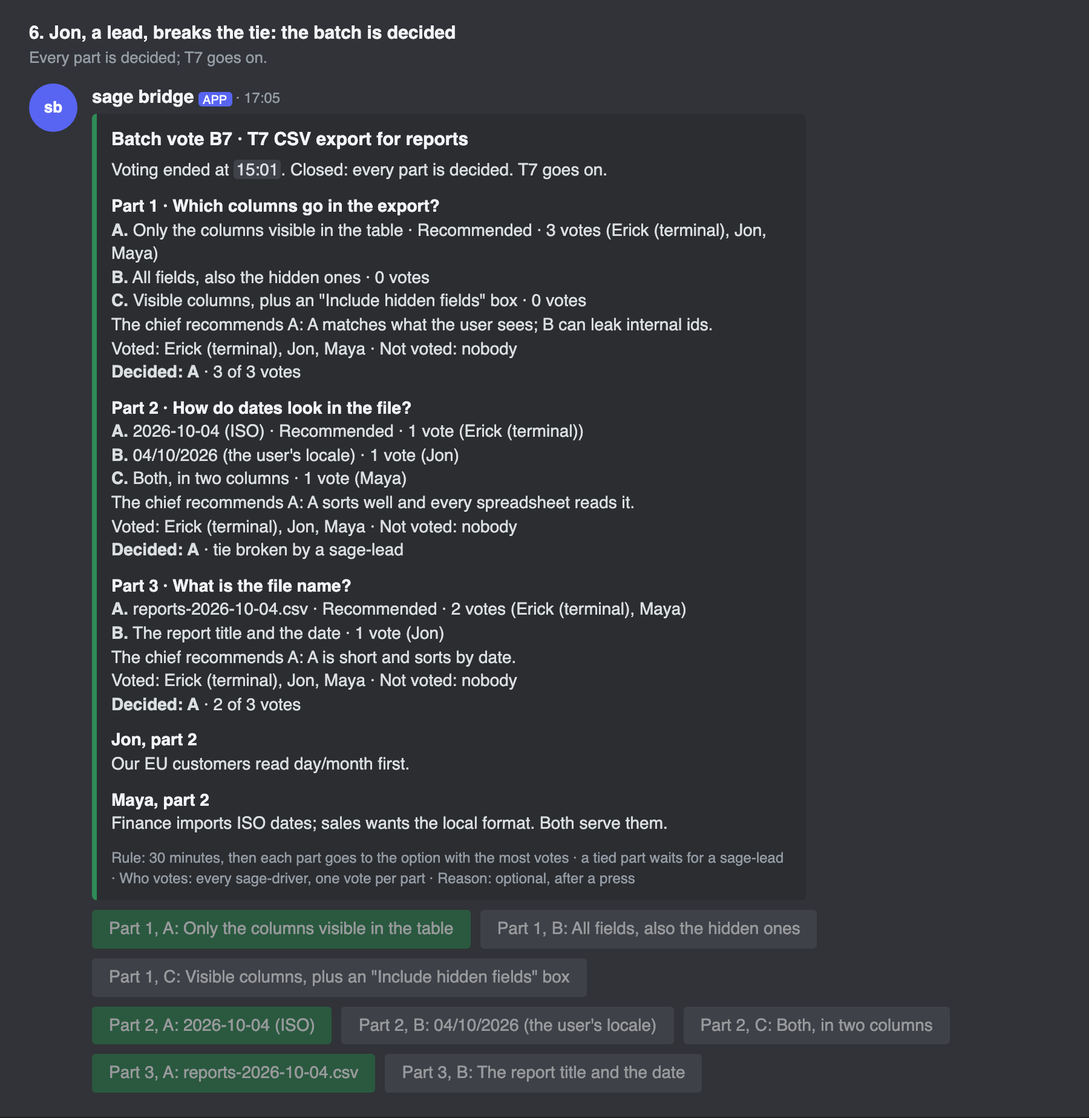
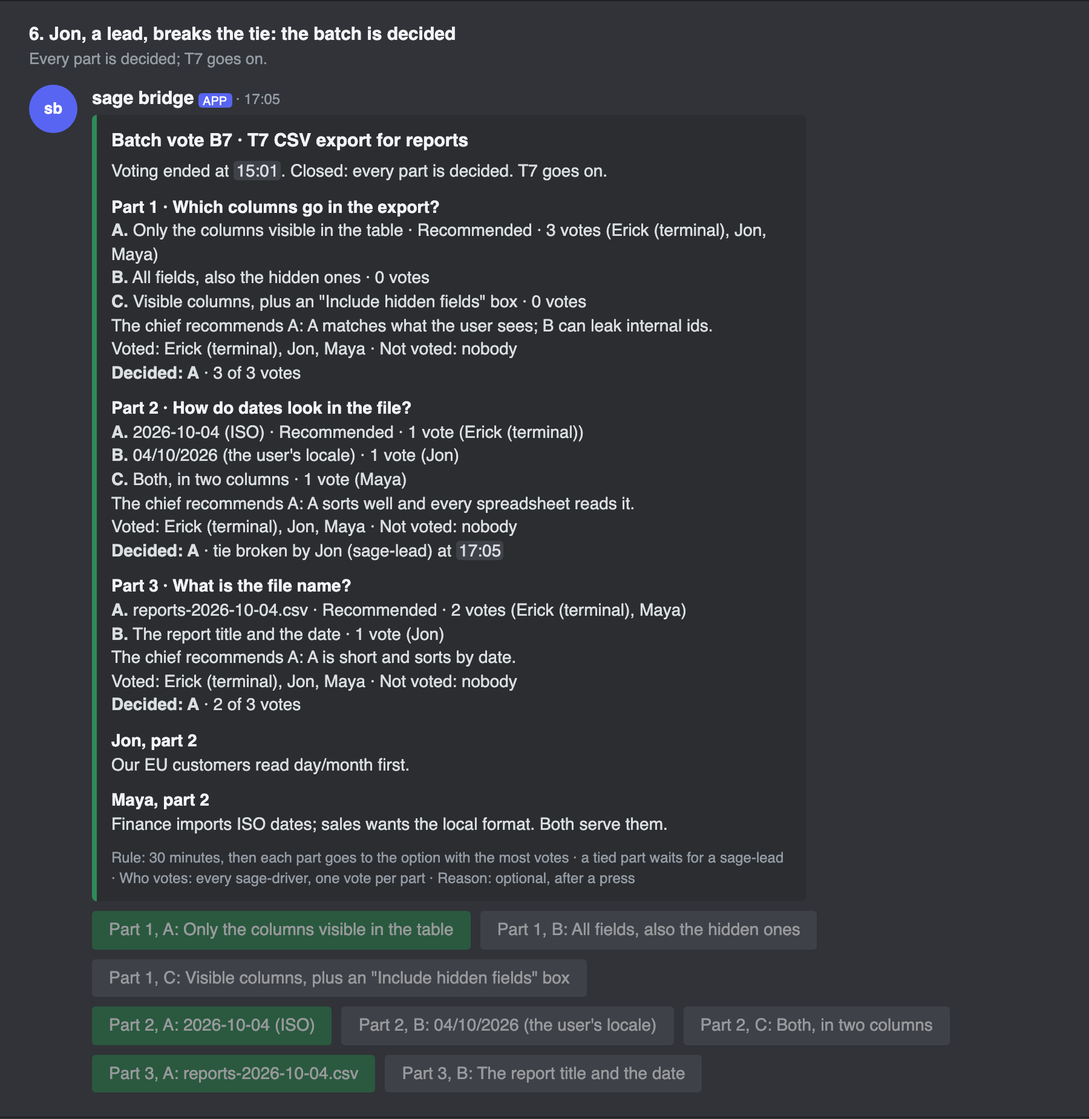
Regenerate the B2 preview and shots for T39
Shots 05, 06 and 10 show the reminder sentence and the named lead;
the voting shots show "The work on the task goes on."

diff --git a/design/b2/index.html b/design/b2/index.html
@@ -30,46 +30,46 @@
 <div class="msg eph"><span class="av">sb</span><div class="body"><div class="meta"><b>sage bridge</b> <span class="app">APP</span> · 14:22</div>
   <div class="ephnote">Only you can see this · Dismiss message</div><div>Already answered by Maya: A</div></div></div></section>
 <section id="m3"><h2>3. The batch vote of a task</h2><p class="about">18 minutes left; Erick voted at his terminal; Jon gave a reason.</p><div class="msg"><span class="av">sb</span><div class="body"><div class="meta"><b>sage bridge</b> <span class="app">APP</span> · 14:43</div>
-  <div class="embed" style="border-color:#6b4fd8"><div class="title">Batch vote B7 · T7 CSV export for reports</div><div class="desc">3 product questions of T7. Vote on each part; change your vote until the vote ends. Closes at <time>15:01</time> (<time>in 18 minutes</time>).</div>
+  <div class="embed" style="border-color:#6b4fd8"><div class="title">Batch vote B7 · T7 CSV export for reports</div><div class="desc">3 product questions of T7. Vote on each part; change your vote until the vote ends. The work on the task goes on. Closes at <time>15:01</time> (<time>in 18 minutes</time>).</div>
   <div class="field"><div class="fname">Part 1 · Which columns go in the export?</div><div class="fvalue"><b>A.</b> Only the columns visible in the table · Recommended · 2 votes (Erick (terminal), Jon)<br><b>B.</b> All fields, also the hidden ones · 0 votes<br><b>C.</b> Visible columns, plus an &quot;Include hidden fields&quot; box · 0 votes<br>The chief recommends A: A matches what the user sees; B can leak internal ids.<br>Voted: Erick (terminal), Jon · Not voted: Maya<br>Ahead: A</div></div><div class="field"><div class="fname">Part 2 · How do dates look in the file?</div><div class="fvalue"><b>A.</b> 2026-10-04 (ISO) · Recommended · 1 vote (Erick (terminal))<br><b>B.</b> 04/10/2026 (the user's locale) · 1 vote (Jon)<br><b>C.</b> Both, in two columns · 0 votes<br>The chief recommends A: A sorts well and every spreadsheet reads it.<br>Voted: Erick (terminal), Jon · Not voted: Maya<br>Even so far</div></div><div class="field"><div class="fname">Part 3 · What is the file name?</div><div class="fvalue"><b>A.</b> reports-2026-10-04.csv · Recommended · 1 vote (Erick (terminal))<br><b>B.</b> The report title and the date · 1 vote (Jon)<br>The chief recommends A: A is short and sorts by date.<br>Voted: Erick (terminal), Jon · Not voted: Maya<br>Even so far</div></div><div class="field"><div class="fname">Jon, part 2</div><div class="fvalue">Our EU customers read day/month first.</div></div>
   <div class="footer">Rule: 30 minutes, then each part goes to the option with the most votes · a tied part waits for a sage-lead · Who votes: every sage-driver, one vote per part · Reason: optional, after a press</div></div><div class="row"><button class="primary" title="press:B7:0:0">Part 1, A: Only the columns visible in the table</button><button class="secondary" title="press:B7:0:1">Part 1, B: All fields, also the hidden ones</button><button class="secondary" title="press:B7:0:2">Part 1, C: Visible columns, plus an &quot;Include hidden fields&quot; box</button></div><div class="row"><button class="primary" title="press:B7:1:0">Part 2, A: 2026-10-04 (ISO)</button><button class="secondary" title="press:B7:1:1">Part 2, B: 04/10/2026 (the user's locale)</button><button class="secondary" title="press:B7:1:2">Part 2, C: Both, in two columns</button></div><div class="row"><button class="primary" title="press:B7:2:0">Part 3, A: reports-2026-10-04.csv</button><button class="secondary" title="press:B7:2:1">Part 3, B: The report title and the date</button></div><div class="row"><button class="danger" title="end:B7">End vote now (sage-lead only)</button></div></div></div>
 </section>
 <section id="m4"><h2>4. Maya votes C on part 2 and may add a reason</h2><p class="about">Her vote counts already; the form is optional.</p><div class="msg"><span class="av">sb</span><div class="body"><div class="meta"><b>sage bridge</b> <span class="app">APP</span> · 14:44</div>
-  <div class="embed" style="border-color:#6b4fd8"><div class="title">Batch vote B7 · T7 CSV export for reports</div><div class="desc">3 product questions of T7. Vote on each part; change your vote until the vote ends. Closes at <time>15:01</time> (<time>in 17 minutes</time>).</div>
+  <div class="embed" style="border-color:#6b4fd8"><div class="title">Batch vote B7 · T7 CSV export for reports</div><div class="desc">3 product questions of T7. Vote on each part; change your vote until the vote ends. The work on the task goes on. Closes at <time>15:01</time> (<time>in 17 minutes</time>).</div>
   <div class="field"><div class="fname">Part 1 · Which columns go in the export?</div><div class="fvalue"><b>A.</b> Only the columns visible in the table · Recommended · 2 votes (Erick (terminal), Jon)<br><b>B.</b> All fields, also the hidden ones · 0 votes<br><b>C.</b> Visible columns, plus an &quot;Include hidden fields&quot; box · 0 votes<br>The chief recommends A: A matches what the user sees; B can leak internal ids.<br>Voted: Erick (terminal), Jon · Not voted: Maya<br>Ahead: A</div></div><div class="field"><div class="fname">Part 2 · How do dates look in the file?</div><div class="fvalue"><b>A.</b> 2026-10-04 (ISO) · Recommended · 1 vote (Erick (terminal))<br><b>B.</b> 04/10/2026 (the user's locale) · 1 vote (Jon)<br><b>C.</b> Both, in two columns · 1 vote (Maya)<br>The chief recommends A: A sorts well and every spreadsheet reads it.<br>Voted: Erick (terminal), Jon, Maya · Not voted: nobody<br>Even so far</div></div><div class="field"><div class="fname">Part 3 · What is the file name?</div><div class="fvalue"><b>A.</b> reports-2026-10-04.csv · Recommended · 1 vote (Erick (terminal))<br><b>B.</b> The report title and the date · 1 vote (Jon)<br>The chief recommends A: A is short and sorts by date.<br>Voted: Erick (terminal), Jon · Not voted: Maya<br>Even so far</div></div><div class="field"><div class="fname">Jon, part 2</div><div class="fvalue">Our EU customers read day/month first.</div></div>
   <div class="footer">Rule: 30 minutes, then each part goes to the option with the most votes · a tied part waits for a sage-lead · Who votes: every sage-driver, one vote per part · Reason: optional, after a press</div></div><div class="row"><button class="primary" title="press:B7:0:0">Part 1, A: Only the columns visible in the table</button><button class="secondary" title="press:B7:0:1">Part 1, B: All fields, also the hidden ones</button><button class="secondary" title="press:B7:0:2">Part 1, C: Visible columns, plus an &quot;Include hidden fields&quot; box</button></div><div class="row"><button class="primary" title="press:B7:1:0">Part 2, A: 2026-10-04 (ISO)</button><button class="secondary" title="press:B7:1:1">Part 2, B: 04/10/2026 (the user's locale)</button><button class="secondary" title="press:B7:1:2">Part 2, C: Both, in two columns</button></div><div class="row"><button class="primary" title="press:B7:2:0">Part 3, A: reports-2026-10-04.csv</button><button class="secondary" title="press:B7:2:1">Part 3, B: The report title and the date</button></div><div class="row"><button class="danger" title="end:B7">End vote now (sage-lead only)</button></div></div></div>
 <div class="modal"><h3>Your vote counts: C. Both, in two columns</h3><label>Reason for part 2 (optional)<textarea placeholder="Everyone sees it on the card. The chief gets it as quoted text and sums up the arguments." maxlength="500"></textarea></label><div class="mbtns"><span>Cancel</span><button class="primary">Submit</button></div></div></section>
 <section id="m5"><h2>5. At 30 minutes the vote ends; part 2 is tied 1-1-1</h2><p class="about">Parts 1 and 3 are provisional; the tie-break buttons show the tied options only.</p><div class="msg"><span class="av">sb</span><div class="body"><div class="meta"><b>sage bridge</b> <span class="app">APP</span> · 15:01</div>
   <div class="embed" style="border-color:#c77700"><div class="title">Batch vote B7 · T7 CSV export for reports</div><div class="desc">Voting ended at <time>15:01</time>. 1 part is tied: it waits for a sage-lead. The other parts are provisional, and T7 waits.</div>
-  <div class="field"><div class="fname">Part 1 · Which columns go in the export?</div><div class="fvalue"><b>A.</b> Only the columns visible in the table · Recommended · 3 votes (Erick (terminal), Jon, Maya)<br><b>B.</b> All fields, also the hidden ones · 0 votes<br><b>C.</b> Visible columns, plus an &quot;Include hidden fields&quot; box · 0 votes<br>The chief recommends A: A matches what the user sees; B can leak internal ids.<br>Voted: Erick (terminal), Jon, Maya · Not voted: nobody<br><b>Provisional: A</b> · 3 of 3 votes</div></div><div class="field"><div class="fname">Part 2 · How do dates look in the file?</div><div class="fvalue"><b>A.</b> 2026-10-04 (ISO) · Recommended · 1 vote (Erick (terminal))<br><b>B.</b> 04/10/2026 (the user's locale) · 1 vote (Jon)<br><b>C.</b> Both, in two columns · 1 vote (Maya)<br>The chief recommends A: A sorts well and every spreadsheet reads it.<br>Voted: Erick (terminal), Jon, Maya · Not voted: nobody<br><b>Tied: A, B, C at 1 vote each.</b> A sage-lead breaks the tie.</div></div><div class="field"><div class="fname">Part 3 · What is the file name?</div><div class="fvalue"><b>A.</b> reports-2026-10-04.csv · Recommended · 2 votes (Erick (terminal), Maya)<br><b>B.</b> The report title and the date · 1 vote (Jon)<br>The chief recommends A: A is short and sorts by date.<br>Voted: Erick (terminal), Jon, Maya · Not voted: nobody<br><b>Provisional: A</b> · 2 of 3 votes</div></div><div class="field"><div class="fname">Jon, part 2</div><div class="fvalue">Our EU customers read day/month first.</div></div><div class="field"><div class="fname">Maya, part 2</div><div class="fvalue">Finance imports ISO dates; sales wants the local format. Both serve them.</div></div>
+  <div class="field"><div class="fname">Part 1 · Which columns go in the export?</div><div class="fvalue"><b>A.</b> Only the columns visible in the table · Recommended · 3 votes (Erick (terminal), Jon, Maya)<br><b>B.</b> All fields, also the hidden ones · 0 votes<br><b>C.</b> Visible columns, plus an &quot;Include hidden fields&quot; box · 0 votes<br>The chief recommends A: A matches what the user sees; B can leak internal ids.<br>Voted: Erick (terminal), Jon, Maya · Not voted: nobody<br><b>Provisional: A</b> · 3 of 3 votes</div></div><div class="field"><div class="fname">Part 2 · How do dates look in the file?</div><div class="fvalue"><b>A.</b> 2026-10-04 (ISO) · Recommended · 1 vote (Erick (terminal))<br><b>B.</b> 04/10/2026 (the user's locale) · 1 vote (Jon)<br><b>C.</b> Both, in two columns · 1 vote (Maya)<br>The chief recommends A: A sorts well and every spreadsheet reads it.<br>Voted: Erick (terminal), Jon, Maya · Not voted: nobody<br><b>Tied: A, B, C at 1 vote each.</b> A sage-lead breaks the tie. The chief reminds @sage-lead every 2 h.</div></div><div class="field"><div class="fname">Part 3 · What is the file name?</div><div class="fvalue"><b>A.</b> reports-2026-10-04.csv · Recommended · 2 votes (Erick (terminal), Maya)<br><b>B.</b> The report title and the date · 1 vote (Jon)<br>The chief recommends A: A is short and sorts by date.<br>Voted: Erick (terminal), Jon, Maya · Not voted: nobody<br><b>Provisional: A</b> · 2 of 3 votes</div></div><div class="field"><div class="fname">Jon, part 2</div><div class="fvalue">Our EU customers read day/month first.</div></div><div class="field"><div class="fname">Maya, part 2</div><div class="fvalue">Finance imports ISO dates; sales wants the local format. Both serve them.</div></div>
   <div class="footer">Rule: 30 minutes, then each part goes to the option with the most votes · a tied part waits for a sage-lead · Who votes: every sage-driver, one vote per part · Reason: optional, after a press</div></div><div class="row"><button class="success" disabled title="press:B7:0:0">Part 1, A: Only the columns visible in the table</button><button class="secondary" disabled title="press:B7:0:1">Part 1, B: All fields, also the hidden ones</button><button class="secondary" disabled title="press:B7:0:2">Part 1, C: Visible columns, plus an &quot;Include hidden fields&quot; box</button></div><div class="row"><button class="danger" title="tiebreak:B7:1:0">Part 2, break the tie: A (sage-lead only)</button><button class="danger" title="tiebreak:B7:1:1">Part 2, break the tie: B (sage-lead only)</button><button class="danger" title="tiebreak:B7:1:2">Part 2, break the tie: C (sage-lead only)</button></div><div class="row"><button class="success" disabled title="press:B7:2:0">Part 3, A: reports-2026-10-04.csv</button><button class="secondary" disabled title="press:B7:2:1">Part 3, B: The report title and the date</button></div></div></div>
 </section>
 <section id="m6"><h2>6. Jon, a lead, breaks the tie: the batch is decided</h2><p class="about">Every part is decided; T7 goes on.</p><div class="msg"><span class="av">sb</span><div class="body"><div class="meta"><b>sage bridge</b> <span class="app">APP</span> · 17:05</div>
   <div class="embed" style="border-color:#2e8b57"><div class="title">Batch vote B7 · T7 CSV export for reports</div><div class="desc">Voting ended at <time>15:01</time>. Closed: every part is decided. T7 goes on.</div>
-  <div class="field"><div class="fname">Part 1 · Which columns go in the export?</div><div class="fvalue"><b>A.</b> Only the columns visible in the table · Recommended · 3 votes (Erick (terminal), Jon, Maya)<br><b>B.</b> All fields, also the hidden ones · 0 votes<br><b>C.</b> Visible columns, plus an &quot;Include hidden fields&quot; box · 0 votes<br>The chief recommends A: A matches what the user sees; B can leak internal ids.<br>Voted: Erick (terminal), Jon, Maya · Not voted: nobody<br><b>Decided: A</b> · 3 of 3 votes</div></div><div class="field"><div class="fname">Part 2 · How do dates look in the file?</div><div class="fvalue"><b>A.</b> 2026-10-04 (ISO) · Recommended · 1 vote (Erick (terminal))<br><b>B.</b> 04/10/2026 (the user's locale) · 1 vote (Jon)<br><b>C.</b> Both, in two columns · 1 vote (Maya)<br>The chief recommends A: A sorts well and every spreadsheet reads it.<br>Voted: Erick (terminal), Jon, Maya · Not voted: nobody<br><b>Decided: A</b> · tie broken by a sage-lead</div></div><div class="field"><div class="fname">Part 3 · What is the file name?</div><div class="fvalue"><b>A.</b> reports-2026-10-04.csv · Recommended · 2 votes (Erick (terminal), Maya)<br><b>B.</b> The report title and the date · 1 vote (Jon)<br>The chief recommends A: A is short and sorts by date.<br>Voted: Erick (terminal), Jon, Maya · Not voted: nobody<br><b>Decided: A</b> · 2 of 3 votes</div></div><div class="field"><div class="fname">Jon, part 2</div><div class="fvalue">Our EU customers read day/month first.</div></div><div class="field"><div class="fname">Maya, part 2</div><div class="fvalue">Finance imports ISO dates; sales wants the local format. Both serve them.</div></div>
+  <div class="field"><div class="fname">Part 1 · Which columns go in the export?</div><div class="fvalue"><b>A.</b> Only the columns visible in the table · Recommended · 3 votes (Erick (terminal), Jon, Maya)<br><b>B.</b> All fields, also the hidden ones · 0 votes<br><b>C.</b> Visible columns, plus an &quot;Include hidden fields&quot; box · 0 votes<br>The chief recommends A: A matches what the user sees; B can leak internal ids.<br>Voted: Erick (terminal), Jon, Maya · Not voted: nobody<br><b>Decided: A</b> · 3 of 3 votes</div></div><div class="field"><div class="fname">Part 2 · How do dates look in the file?</div><div class="fvalue"><b>A.</b> 2026-10-04 (ISO) · Recommended · 1 vote (Erick (terminal))<br><b>B.</b> 04/10/2026 (the user's locale) · 1 vote (Jon)<br><b>C.</b> Both, in two columns · 1 vote (Maya)<br>The chief recommends A: A sorts well and every spreadsheet reads it.<br>Voted: Erick (terminal), Jon, Maya · Not voted: nobody<br><b>Decided: A</b> · tie broken by Jon (sage-lead) at <time>17:05</time></div></div><div class="field"><div class="fname">Part 3 · What is the file name?</div><div class="fvalue"><b>A.</b> reports-2026-10-04.csv · Recommended · 2 votes (Erick (terminal), Maya)<br><b>B.</b> The report title and the date · 1 vote (Jon)<br>The chief recommends A: A is short and sorts by date.<br>Voted: Erick (terminal), Jon, Maya · Not voted: nobody<br><b>Decided: A</b> · 2 of 3 votes</div></div><div class="field"><div class="fname">Jon, part 2</div><div class="fvalue">Our EU customers read day/month first.</div></div><div class="field"><div class="fname">Maya, part 2</div><div class="fvalue">Finance imports ISO dates; sales wants the local format. Both serve them.</div></div>
   <div class="footer">Rule: 30 minutes, then each part goes to the option with the most votes · a tied part waits for a sage-lead · Who votes: every sage-driver, one vote per part · Reason: optional, after a press</div></div><div class="row"><button class="success" disabled title="press:B7:0:0">Part 1, A: Only the columns visible in the table</button><button class="secondary" disabled title="press:B7:0:1">Part 1, B: All fields, also the hidden ones</button><button class="secondary" disabled title="press:B7:0:2">Part 1, C: Visible columns, plus an &quot;Include hidden fields&quot; box</button></div><div class="row"><button class="success" disabled title="press:B7:1:0">Part 2, A: 2026-10-04 (ISO)</button><button class="secondary" disabled title="press:B7:1:1">Part 2, B: 04/10/2026 (the user's locale)</button><button class="secondary" disabled title="press:B7:1:2">Part 2, C: Both, in two columns</button></div><div class="row"><button class="success" disabled title="press:B7:2:0">Part 3, A: reports-2026-10-04.csv</button><button class="secondary" disabled title="press:B7:2:1">Part 3, B: The report title and the date</button></div></div></div>
 </section>
 <section id="m7"><h2>7. Jon, a lead, presses End vote now</h2><p class="about">The private confirm says what each part gets with the votes so far.</p><div class="msg"><span class="av">sb</span><div class="body"><div class="meta"><b>sage bridge</b> <span class="app">APP</span> · 15:28</div>
-  <div class="embed" style="border-color:#6b4fd8"><div class="title">Batch vote B9 · T9 Empty state for the reports page</div><div class="desc">2 product questions of T9. Vote on each part; change your vote until the vote ends. Closes at <time>15:40</time> (<time>in 12 minutes</time>).</div>
+  <div class="embed" style="border-color:#6b4fd8"><div class="title">Batch vote B9 · T9 Empty state for the reports page</div><div class="desc">2 product questions of T9. Vote on each part; change your vote until the vote ends. The work on the task goes on. Closes at <time>15:40</time> (<time>in 12 minutes</time>).</div>
   <div class="field"><div class="fname">Part 1 · What does the empty reports page show?</div><div class="fvalue"><b>A.</b> An example report and a &quot;Create report&quot; button · Recommended · 2 votes (Erick, Jon)<br><b>B.</b> Only a &quot;Create report&quot; button · 1 vote (Maya)<br>The chief recommends A: An example teaches the page in one look.<br>Voted: Erick, Jon, Maya · Not voted: nobody<br>Ahead: A</div></div><div class="field"><div class="fname">Part 2 · Does the empty page link to the help article?</div><div class="fvalue"><b>A.</b> Yes, under the button · Recommended · 0 votes<br><b>B.</b> No · 0 votes<br>The chief recommends A: The help article answers the top 3 support questions.<br>Voted: nobody yet · Not voted: Erick, Maya, Jon<br>No votes yet</div></div>
   <div class="footer">Rule: 30 minutes, then each part goes to the option with the most votes · a tied part waits for a sage-lead · Who votes: every sage-driver, one vote per part · Reason: optional, after a press</div></div><div class="row"><button class="primary" title="press:B9:0:0">Part 1, A: An example report and a &quot;Create report&quot; button</button><button class="secondary" title="press:B9:0:1">Part 1, B: Only a &quot;Create report&quot; button</button></div><div class="row"><button class="primary" title="press:B9:1:0">Part 2, A: Yes, under the button</button><button class="secondary" title="press:B9:1:1">Part 2, B: No</button></div><div class="row"><button class="danger" title="end:B9">End vote now (sage-lead only)</button></div></div></div>
 <div class="msg eph"><span class="av">sb</span><div class="body"><div class="meta"><b>sage bridge</b> <span class="app">APP</span> · 15:28</div>
   <div class="ephnote">Only you can see this · Dismiss message</div><div><b>End B9 now?</b><br>Part 1 goes to A: 2 of 3 votes (Erick, Jon).<br>Part 2 has no votes. It stays open until a sage-lead breaks the tie.<br>Nobody can vote after this.</div><div class="row"><button class="secondary" title="cancel:B9">Cancel</button><button class="danger" title="end!:B9">End vote now</button></div></div></div></section>
 <section id="m8"><h2>8. Maya is not a lead and presses End vote now</h2><p class="about">Discord shows every button to everyone; only a lead can end the vote.</p><div class="msg"><span class="av">sb</span><div class="body"><div class="meta"><b>sage bridge</b> <span class="app">APP</span> · 15:28</div>
-  <div class="embed" style="border-color:#6b4fd8"><div class="title">Batch vote B9 · T9 Empty state for the reports page</div><div class="desc">2 product questions of T9. Vote on each part; change your vote until the vote ends. Closes at <time>15:40</time> (<time>in 12 minutes</time>).</div>
+  <div class="embed" style="border-color:#6b4fd8"><div class="title">Batch vote B9 · T9 Empty state for the reports page</div><div class="desc">2 product questions of T9. Vote on each part; change your vote until the vote ends. The work on the task goes on. Closes at <time>15:40</time> (<time>in 12 minutes</time>).</div>
   <div class="field"><div class="fname">Part 1 · What does the empty reports page show?</div><div class="fvalue"><b>A.</b> An example report and a &quot;Create report&quot; button · Recommended · 2 votes (Erick, Jon)<br><b>B.</b> Only a &quot;Create report&quot; button · 1 vote (Maya)<br>The chief recommends A: An example teaches the page in one look.<br>Voted: Erick, Jon, Maya · Not voted: nobody<br>Ahead: A</div></div><div class="field"><div class="fname">Part 2 · Does the empty page link to the help article?</div><div class="fvalue"><b>A.</b> Yes, under the button · Recommended · 0 votes<br><b>B.</b> No · 0 votes<br>The chief recommends A: The help article answers the top 3 support questions.<br>Voted: nobody yet · Not voted: Erick, Maya, Jon<br>No votes yet</div></div>
   <div class="footer">Rule: 30 minutes, then each part goes to the option with the most votes · a tied part waits for a sage-lead · Who votes: every sage-driver, one vote per part · Reason: optional, after a press</div></div><div class="row"><button class="primary" title="press:B9:0:0">Part 1, A: An example report and a &quot;Create report&quot; button</button><button class="secondary" title="press:B9:0:1">Part 1, B: Only a &quot;Create report&quot; button</button></div><div class="row"><button class="primary" title="press:B9:1:0">Part 2, A: Yes, under the button</button><button class="secondary" title="press:B9:1:1">Part 2, B: No</button></div><div class="row"><button class="danger" title="end:B9">End vote now (sage-lead only)</button></div></div></div>
 <div class="msg eph"><span class="av">sb</span><div class="body"><div class="meta"><b>sage bridge</b> <span class="app">APP</span> · 15:28</div>
   <div class="ephnote">Only you can see this · Dismiss message</div><div>Only a sage-lead can do this. Your votes on the parts count like everyone's.</div></div></div></section>
 <section id="m9"><h2>9. Sam has no role and presses a button</h2><p class="about">The tally does not change; only Sam sees the note.</p><div class="msg"><span class="av">sb</span><div class="body"><div class="meta"><b>sage bridge</b> <span class="app">APP</span> · 15:29</div>
-  <div class="embed" style="border-color:#6b4fd8"><div class="title">Batch vote B9 · T9 Empty state for the reports page</div><div class="desc">2 product questions of T9. Vote on each part; change your vote until the vote ends. Closes at <time>15:40</time> (<time>in 11 minutes</time>).</div>
+  <div class="embed" style="border-color:#6b4fd8"><div class="title">Batch vote B9 · T9 Empty state for the reports page</div><div class="desc">2 product questions of T9. Vote on each part; change your vote until the vote ends. The work on the task goes on. Closes at <time>15:40</time> (<time>in 11 minutes</time>).</div>
   <div class="field"><div class="fname">Part 1 · What does the empty reports page show?</div><div class="fvalue"><b>A.</b> An example report and a &quot;Create report&quot; button · Recommended · 2 votes (Erick, Jon)<br><b>B.</b> Only a &quot;Create report&quot; button · 1 vote (Maya)<br>The chief recommends A: An example teaches the page in one look.<br>Voted: Erick, Jon, Maya · Not voted: nobody<br>Ahead: A</div></div><div class="field"><div class="fname">Part 2 · Does the empty page link to the help article?</div><div class="fvalue"><b>A.</b> Yes, under the button · Recommended · 0 votes<br><b>B.</b> No · 0 votes<br>The chief recommends A: The help article answers the top 3 support questions.<br>Voted: nobody yet · Not voted: Erick, Maya, Jon<br>No votes yet</div></div>
   <div class="footer">Rule: 30 minutes, then each part goes to the option with the most votes · a tied part waits for a sage-lead · Who votes: every sage-driver, one vote per part · Reason: optional, after a press</div></div><div class="row"><button class="primary" title="press:B9:0:0">Part 1, A: An example report and a &quot;Create report&quot; button</button><button class="secondary" title="press:B9:0:1">Part 1, B: Only a &quot;Create report&quot; button</button></div><div class="row"><button class="primary" title="press:B9:1:0">Part 2, A: Yes, under the button</button><button class="secondary" title="press:B9:1:1">Part 2, B: No</button></div><div class="row"><button class="danger" title="end:B9">End vote now (sage-lead only)</button></div></div></div>
 <div class="msg eph"><span class="av">sb</span><div class="body"><div class="meta"><b>sage bridge</b> <span class="app">APP</span> · 15:29</div>
   <div class="ephnote">Only you can see this · Dismiss message</div><div>Your press did not count. Only people with the sage-driver role can answer or vote. You can still read this thread.</div></div></div></section>
 <section id="m10"><h2>10. Jon confirms: the vote ended early</h2><p class="about">Part 1 is provisional; part 2 had no votes and waits for a lead.</p><div class="msg"><span class="av">sb</span><div class="body"><div class="meta"><b>sage bridge</b> <span class="app">APP</span> · 15:28</div>
-  <div class="embed" style="border-color:#c77700"><div class="title">Batch vote B9 · T9 Empty state for the reports page</div><div class="desc">Ended early at <time>15:28</time> by a sage-lead, with the votes so far. 1 part is tied: it waits for a sage-lead. The other parts are provisional, and T9 waits.</div>
-  <div class="field"><div class="fname">Part 1 · What does the empty reports page show?</div><div class="fvalue"><b>A.</b> An example report and a &quot;Create report&quot; button · Recommended · 2 votes (Erick, Jon)<br><b>B.</b> Only a &quot;Create report&quot; button · 1 vote (Maya)<br>The chief recommends A: An example teaches the page in one look.<br>Voted: Erick, Jon, Maya · Not voted: nobody<br><b>Provisional: A</b> · 2 of 3 votes</div></div><div class="field"><div class="fname">Part 2 · Does the empty page link to the help article?</div><div class="fvalue"><b>A.</b> Yes, under the button · Recommended · 0 votes<br><b>B.</b> No · 0 votes<br>The chief recommends A: The help article answers the top 3 support questions.<br>Voted: nobody yet · Not voted: Erick, Maya, Jon<br><b>Tied: no votes.</b> A sage-lead breaks the tie.</div></div>
+  <div class="embed" style="border-color:#c77700"><div class="title">Batch vote B9 · T9 Empty state for the reports page</div><div class="desc">Ended early by Jon (sage-lead) at <time>15:28</time>, with the votes so far. 1 part is tied: it waits for a sage-lead. The other parts are provisional, and T9 waits.</div>
+  <div class="field"><div class="fname">Part 1 · What does the empty reports page show?</div><div class="fvalue"><b>A.</b> An example report and a &quot;Create report&quot; button · Recommended · 2 votes (Erick, Jon)<br><b>B.</b> Only a &quot;Create report&quot; button · 1 vote (Maya)<br>The chief recommends A: An example teaches the page in one look.<br>Voted: Erick, Jon, Maya · Not voted: nobody<br><b>Provisional: A</b> · 2 of 3 votes</div></div><div class="field"><div class="fname">Part 2 · Does the empty page link to the help article?</div><div class="fvalue"><b>A.</b> Yes, under the button · Recommended · 0 votes<br><b>B.</b> No · 0 votes<br>The chief recommends A: The help article answers the top 3 support questions.<br>Voted: nobody yet · Not voted: Erick, Maya, Jon<br><b>Tied: no votes.</b> A sage-lead breaks the tie. The chief reminds @sage-lead every 2 h.</div></div>
   <div class="footer">Rule: 30 minutes, then each part goes to the option with the most votes · a tied part waits for a sage-lead · Who votes: every sage-driver, one vote per part · Reason: optional, after a press</div></div><div class="row"><button class="success" disabled title="press:B9:0:0">Part 1, A: An example report and a &quot;Create report&quot; button</button><button class="secondary" disabled title="press:B9:0:1">Part 1, B: Only a &quot;Create report&quot; button</button></div><div class="row"><button class="danger" title="tiebreak:B9:1:0">Part 2, break the tie: A (sage-lead only)</button><button class="danger" title="tiebreak:B9:1:1">Part 2, break the tie: B (sage-lead only)</button></div></div></div>
 <div class="msg eph"><span class="av">sb</span><div class="body"><div class="meta"><b>sage bridge</b> <span class="app">APP</span> · 15:28</div>
   <div class="ephnote">Only you can see this · Dismiss message</div><div>You ended the vote on B9 at <time>15:28</time>.</div></div></div></section>
@@ -78,8 +78,8 @@
   <div class="field"><div class="fname">Part 1 · What does the empty reports page show?</div><div class="fvalue"><b>A.</b> An example report and a &quot;Create report&quot; button · Recommended · 2 votes (Erick, Jon)<br><b>B.</b> Only a &quot;Create report&quot; button · 1 vote (Maya)<br>The chief recommends A: An example teaches the page in one look.<br>Voted: Erick, Jon, Maya · Not voted: nobody</div></div><div class="field"><div class="fname">Part 2 · Does the empty page link to the help article?</div><div class="fvalue"><b>A.</b> Yes, under the button · Recommended · 0 votes<br><b>B.</b> No · 0 votes<br>The chief recommends A: The help article answers the top 3 support questions.<br>Voted: nobody yet · Not voted: Erick, Maya, Jon</div></div>
   <div class="footer">Rule: 30 minutes, then each part goes to the option with the most votes · a tied part waits for a sage-lead · Who votes: every sage-driver, one vote per part · Reason: optional, after a press</div></div><div class="row"><button class="primary" disabled title="press:B9:0:0">Part 1, A: An example report and a &quot;Create report&quot; button</button><button class="secondary" disabled title="press:B9:0:1">Part 1, B: Only a &quot;Create report&quot; button</button></div><div class="row"><button class="primary" disabled title="press:B9:1:0">Part 2, A: Yes, under the button</button><button class="secondary" disabled title="press:B9:1:1">Part 2, B: No</button></div></div></div>
 </section>
-<section id="m12"><h2>12. A team of 5 with 32-character names, 4 parts, a 500-character reason from everyone on every part</h2><p class="about">Each reason shows cut to 200 characters; the gate keeps the full text. The oldest reasons go first, and the description counts them. 18 fields of 25; 5949 characters of 6000.</p><div class="msg"><span class="av">sb</span><div class="body"><div class="meta"><b>sage bridge</b> <span class="app">APP</span> · 16:21</div>
-  <div class="embed" style="border-color:#6b4fd8"><div class="title">Batch vote B12 · T12 Four questions, every reason at 500 characters</div><div class="desc">4 product questions of T12. Vote on each part; change your vote until the vote ends. Closes at <time>16:30</time> (<time>in 9 minutes</time>).<br>6 more reasons; the chief has them all</div>
+<section id="m12"><h2>12. A team of 5 with 32-character names, 4 parts, a 500-character reason from everyone on every part</h2><p class="about">Each reason shows cut to 200 characters; the gate keeps the full text. The oldest reasons go first, and the description counts them. 18 fields of 25; 5979 characters of 6000.</p><div class="msg"><span class="av">sb</span><div class="body"><div class="meta"><b>sage bridge</b> <span class="app">APP</span> · 16:21</div>
+  <div class="embed" style="border-color:#6b4fd8"><div class="title">Batch vote B12 · T12 Four questions, every reason at 500 characters</div><div class="desc">4 product questions of T12. Vote on each part; change your vote until the vote ends. The work on the task goes on. Closes at <time>16:30</time> (<time>in 9 minutes</time>).<br>6 more reasons; the chief has them all</div>
   <div class="field"><div class="fname">Part 1 · Question 1 of the batch?</div><div class="fvalue"><b>A.</b> Option A · Recommended · 2 votes (Erick Alexander Benitez-Castillo, Ana Lucía Fernández de la Vega)<br><b>B.</b> Option B · 2 votes (Maya Lindqvist-Oyelaran Nkemelu, Lea Marguerite Schönberg-Dubois)<br><b>C.</b> Option C · 1 vote (Jon Kristoffer Vandenbroucke Jr)<br>The chief recommends A: A is the smallest change.<br>Voted: Erick Alexander Benitez-Castillo, Maya Lindqvist-Oyelaran Nkemelu, Jon Kristoffer Vandenbroucke Jr, Ana Lucía Fernández de la Vega, Lea Marguerite Schönberg-Dubois · Not voted: nobody<br>Even so far</div></div><div class="field"><div class="fname">Part 2 · Question 2 of the batch?</div><div class="fvalue"><b>A.</b> Option A · Recommended · 2 votes (Erick Alexander Benitez-Castillo, Ana Lucía Fernández de la Vega)<br><b>B.</b> Option B · 2 votes (Maya Lindqvist-Oyelaran Nkemelu, Lea Marguerite Schönberg-Dubois)<br><b>C.</b> Option C · 1 vote (Jon Kristoffer Vandenbroucke Jr)<br>The chief recommends A: A is the smallest change.<br>Voted: Erick Alexander Benitez-Castillo, Maya Lindqvist-Oyelaran Nkemelu, Jon Kristoffer Vandenbroucke Jr, Ana Lucía Fernández de la Vega, Lea Marguerite Schönberg-Dubois · Not voted: nobody<br>Even so far</div></div><div class="field"><div class="fname">Part 3 · Question 3 of the batch?</div><div class="fvalue"><b>A.</b> Option A · Recommended · 2 votes (Erick Alexander Benitez-Castillo, Ana Lucía Fernández de la Vega)<br><b>B.</b> Option B · 2 votes (Maya Lindqvist-Oyelaran Nkemelu, Lea Marguerite Schönberg-Dubois)<br><b>C.</b> Option C · 1 vote (Jon Kristoffer Vandenbroucke Jr)<br>The chief recommends A: A is the smallest change.<br>Voted: Erick Alexander Benitez-Castillo, Maya Lindqvist-Oyelaran Nkemelu, Jon Kristoffer Vandenbroucke Jr, Ana Lucía Fernández de la Vega, Lea Marguerite Schönberg-Dubois · Not voted: nobody<br>Even so far</div></div><div class="field"><div class="fname">Part 4 · Question 4 of the batch?</div><div class="fvalue"><b>A.</b> Option A · Recommended · 2 votes (Erick Alexander Benitez-Castillo, Ana Lucía Fernández de la Vega)<br><b>B.</b> Option B · 2 votes (Maya Lindqvist-Oyelaran Nkemelu, Lea Marguerite Schönberg-Dubois)<br><b>C.</b> Option C · 1 vote (Jon Kristoffer Vandenbroucke Jr)<br>The chief recommends A: A is the smallest change.<br>Voted: Erick Alexander Benitez-Castillo, Maya Lindqvist-Oyelaran Nkemelu, Jon Kristoffer Vandenbroucke Jr, Ana Lucía Fernández de la Vega, Lea Marguerite Schönberg-Dubois · Not voted: nobody<br>Even so far</div></div><div class="field"><div class="fname">Maya Lindqvist-Oyelaran Nkemelu, part 2</div><div class="fvalue">Maya Lindqvist-Oyelaran Nkemelu, part 2: The reason text of one holder on one part, 500 characters long, as the form allows at most. The reason text of one holder on one part, 500 characters long, as…</div></div><div class="field"><div class="fname">Jon Kristoffer Vandenbroucke Jr, part 2</div><div class="fvalue">Jon Kristoffer Vandenbroucke Jr, part 2: The reason text of one holder on one part, 500 characters long, as the form allows at most. The reason text of one holder on one part, 500 characters long, as…</div></div><div class="field"><div class="fname">Ana Lucía Fernández de la Vega, part 2</div><div class="fvalue">Ana Lucía Fernández de la Vega, part 2: The reason text of one holder on one part, 500 characters long, as the form allows at most. The reason text of one holder on one part, 500 characters long, as …</div></div><div class="field"><div class="fname">Lea Marguerite Schönberg-Dubois, part 2</div><div class="fvalue">Lea Marguerite Schönberg-Dubois, part 2: The reason text of one holder on one part, 500 characters long, as the form allows at most. The reason text of one holder on one part, 500 characters long, as…</div></div><div class="field"><div class="fname">Erick Alexander Benitez-Castillo, part 3</div><div class="fvalue">Erick Alexander Benitez-Castillo, part 3: The reason text of one holder on one part, 500 characters long, as the form allows at most. The reason text of one holder on one part, 500 characters long, a…</div></div><div class="field"><div class="fname">Maya Lindqvist-Oyelaran Nkemelu, part 3</div><div class="fvalue">Maya Lindqvist-Oyelaran Nkemelu, part 3: The reason text of one holder on one part, 500 characters long, as the form allows at most. The reason text of one holder on one part, 500 characters long, as…</div></div><div class="field"><div class="fname">Jon Kristoffer Vandenbroucke Jr, part 3</div><div class="fvalue">Jon Kristoffer Vandenbroucke Jr, part 3: The reason text of one holder on one part, 500 characters long, as the form allows at most. The reason text of one holder on one part, 500 characters long, as…</div></div><div class="field"><div class="fname">Ana Lucía Fernández de la Vega, part 3</div><div class="fvalue">Ana Lucía Fernández de la Vega, part 3: The reason text of one holder on one part, 500 characters long, as the form allows at most. The reason text of one holder on one part, 500 characters long, as …</div></div><div class="field"><div class="fname">Lea Marguerite Schönberg-Dubois, part 3</div><div class="fvalue">Lea Marguerite Schönberg-Dubois, part 3: The reason text of one holder on one part, 500 characters long, as the form allows at most. The reason text of one holder on one part, 500 characters long, as…</div></div><div class="field"><div class="fname">Erick Alexander Benitez-Castillo, part 4</div><div class="fvalue">Erick Alexander Benitez-Castillo, part 4: The reason text of one holder on one part, 500 characters long, as the form allows at most. The reason text of one holder on one part, 500 characters long, a…</div></div><div class="field"><div class="fname">Maya Lindqvist-Oyelaran Nkemelu, part 4</div><div class="fvalue">Maya Lindqvist-Oyelaran Nkemelu, part 4: The reason text of one holder on one part, 500 characters long, as the form allows at most. The reason text of one holder on one part, 500 characters long, as…</div></div><div class="field"><div class="fname">Jon Kristoffer Vandenbroucke Jr, part 4</div><div class="fvalue">Jon Kristoffer Vandenbroucke Jr, part 4: The reason text of one holder on one part, 500 characters long, as the form allows at most. The reason text of one holder on one part, 500 characters long, as…</div></div><div class="field"><div class="fname">Ana Lucía Fernández de la Vega, part 4</div><div class="fvalue">Ana Lucía Fernández de la Vega, part 4: The reason text of one holder on one part, 500 characters long, as the form allows at most. The reason text of one holder on one part, 500 characters long, as …</div></div><div class="field"><div class="fname">Lea Marguerite Schönberg-Dubois, part 4</div><div class="fvalue">Lea Marguerite Schönberg-Dubois, part 4: The reason text of one holder on one part, 500 characters long, as the form allows at most. The reason text of one holder on one part, 500 characters long, as…</div></div>
   <div class="footer">Rule: 30 minutes, then each part goes to the option with the most votes · a tied part waits for a sage-lead · Who votes: every sage-driver, one vote per part · Reason: optional, after a press</div></div><div class="row"><button class="primary" title="press:B12:0:0">Part 1, A: Option A</button><button class="secondary" title="press:B12:0:1">Part 1, B: Option B</button><button class="secondary" title="press:B12:0:2">Part 1, C: Option C</button></div><div class="row"><button class="primary" title="press:B12:1:0">Part 2, A: Option A</button><button class="secondary" title="press:B12:1:1">Part 2, B: Option B</button><button class="secondary" title="press:B12:1:2">Part 2, C: Option C</button></div><div class="row"><button class="primary" title="press:B12:2:0">Part 3, A: Option A</button><button class="secondary" title="press:B12:2:1">Part 3, B: Option B</button><button class="secondary" title="press:B12:2:2">Part 3, C: Option C</button></div><div class="row"><button class="primary" title="press:B12:3:0">Part 4, A: Option A</button><button class="secondary" title="press:B12:3:1">Part 4, B: Option B</button><button class="secondary" title="press:B12:3:2">Part 4, C: Option C</button></div><div class="row"><button class="danger" title="end:B12">End vote now (sage-lead only)</button></div></div></div>
 </section>
